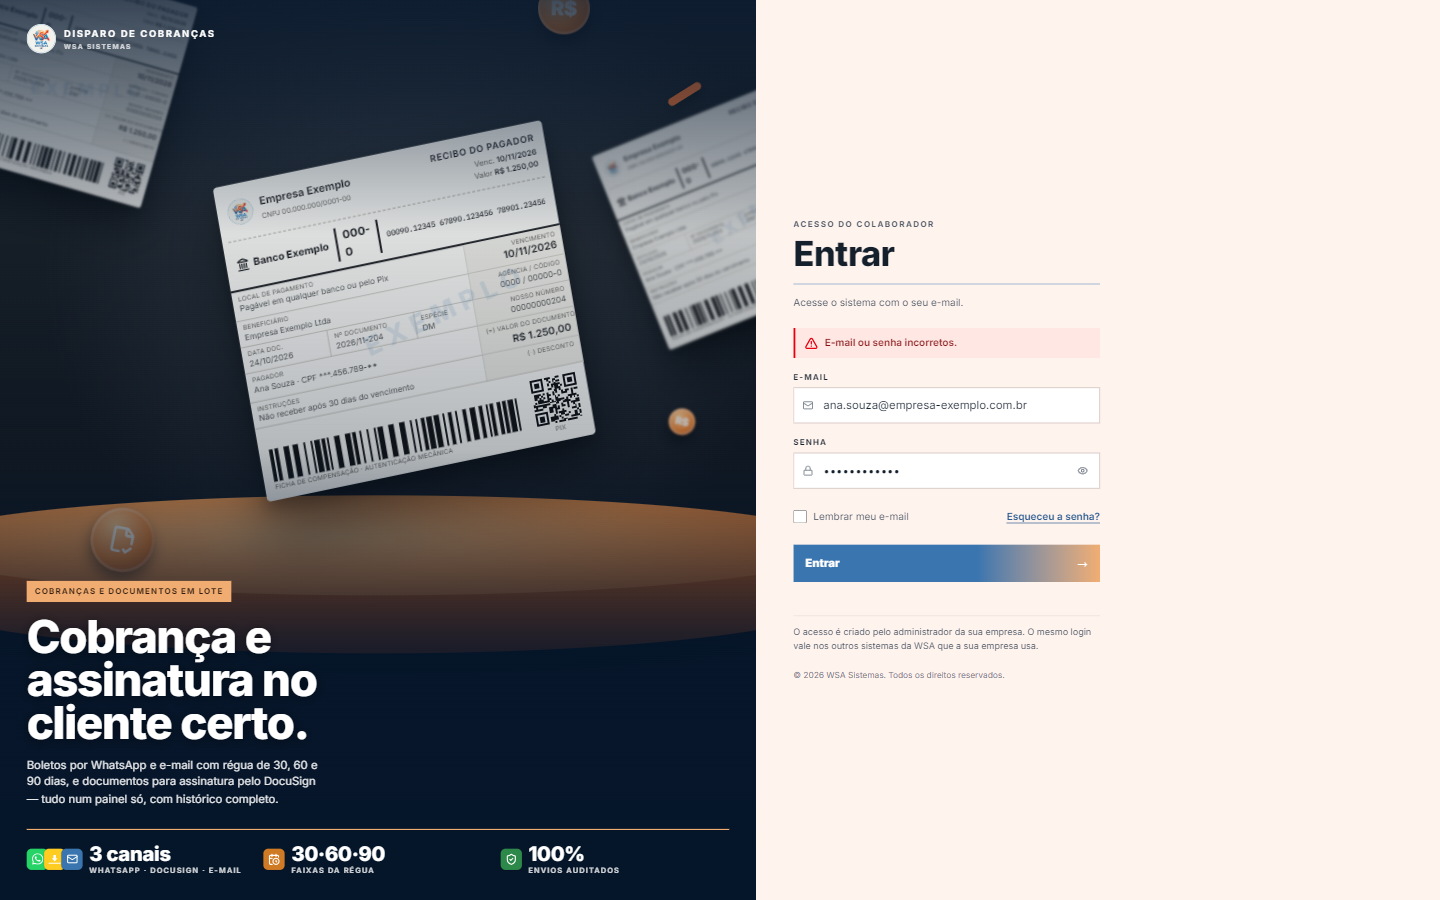
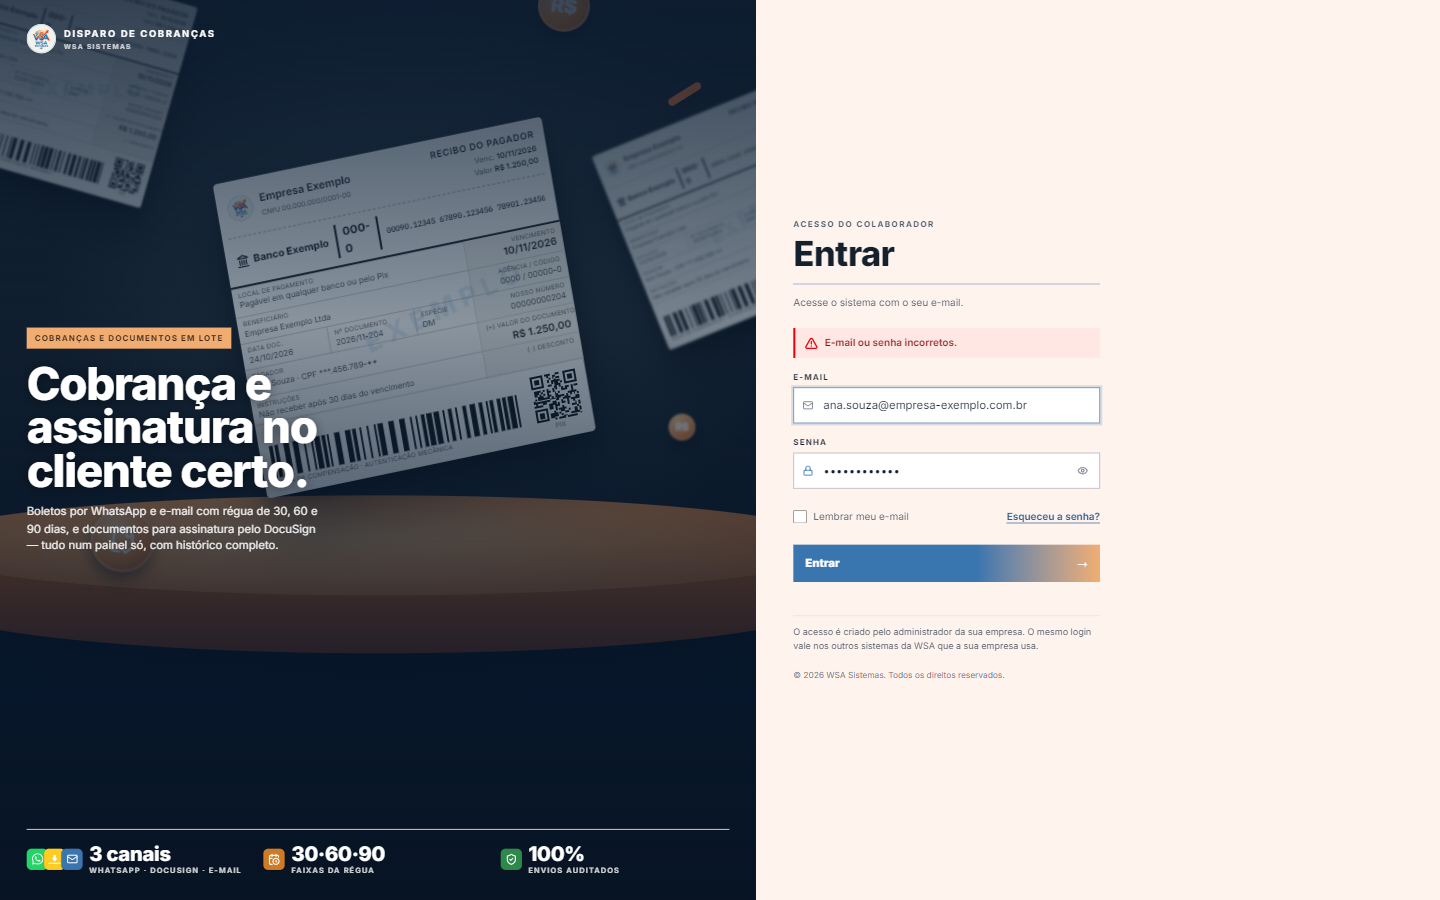
Login: texto no meio, na frente da cena do boleto (igual ao ImobDesk), véu original

diff --git a/src/styles.css b/src/styles.css
@@ -344,14 +344,13 @@
   position: absolute;
   inset: 0;
   pointer-events: none;
-  /* véu do ImobDesk, mais leve no meio para o boleto continuar nítido */
+  /* véu do ImobDesk: a cena fica atrás e o texto grande na frente, em destaque */
   background: linear-gradient(
     180deg,
-    oklch(0.22 0.05 255 / 0.78) 0%,
-    oklch(0.25 0.06 252 / 0.14) 26%,
-    oklch(0.2 0.05 255 / 0.3) 50%,
-    oklch(0.2 0.05 255 / 0.88) 72%,
-    oklch(0.2 0.05 255 / 0.9) 100%
+    oklch(0.22 0.05 255 / 0.8) 0%,
+    oklch(0.25 0.06 252 / 0.48) 36%,
+    oklch(0.2 0.05 255 / 0.86) 76%,
+    oklch(0.2 0.05 255 / 0.62) 100%
   );
 }
 .mpl-visual > :not(.ent-cena):not(.mpl-scrim) {

diff --git a/src/components/login-layout.tsx b/src/components/login-layout.tsx
@@ -45,8 +45,8 @@ export function LoginLayout({ children }: { children: ReactNode }) {
           </span>
         </div>
 
-        {/* No ImobDesk o bloco fica no meio; aqui desce para a base para não cobrir o boleto. */}
-        <div className="mpl-pitch mt-auto">
+        {/* Como no ImobDesk: o texto fica no meio, na frente da cena (que fica atrás, sob o véu). */}
+        <div className="mpl-pitch">
           <span className="mpl-tag">Cobranças e documentos em lote</span>
           <h1 className="mpl-titulo">Cobrança e assinatura no cliente certo.</h1>
           <p className="mpl-texto">
